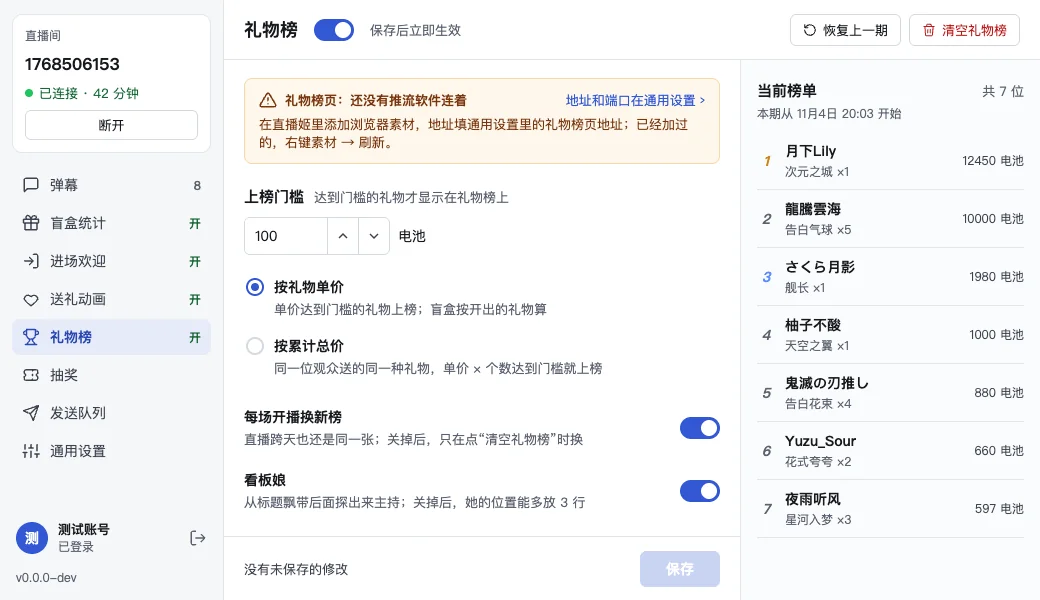
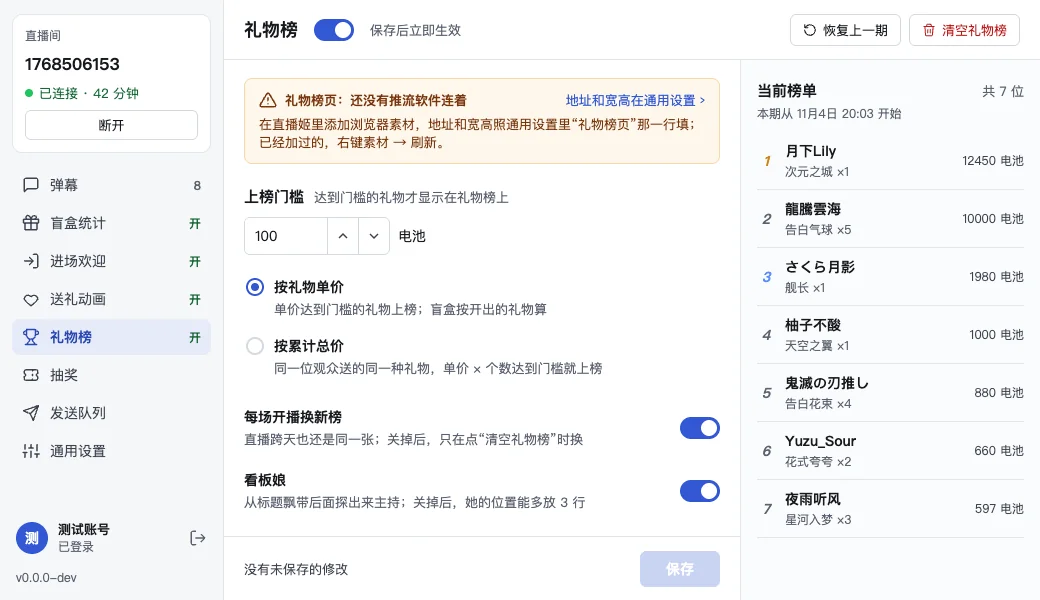
docs: keep browser source sizes in one place on the general settings page list (#296)

Changed region(s): [[0.2462, 0.15, 0.6769, 0.27]]

diff --git a/docs/design/gift-board/boards/GS1-GiftBoardSettings.dc.html b/docs/design/gift-board/boards/GS1-GiftBoardSettings.dc.html
@@ -69,7 +69,7 @@ a{color:#3358D4}a:hover{color:#2A47B0}
               <svg width="18" height="18" viewBox="0 0 24 24" fill="none" stroke="{{t.success}}" stroke-width="2" stroke-linecap="round" stroke-linejoin="round" aria-hidden="true"><path d="M22 11.08V12a10 10 0 1 1-5.93-9.14M22 4L12 14.01l-3-3"></path></svg>
               <span style="font-size: 13px; font-weight: 600; color: {{t.success}}; white-space: nowrap">礼物榜页：已有 1 个推流软件连着</span>
               <span style="flex: 1"></span>
-              <a href="#" style="font-size: 13px; text-decoration: none; white-space: nowrap">地址和端口在通用设置 ›</a>
+              <a href="#" style="font-size: 13px; text-decoration: none; white-space: nowrap">地址和宽高在通用设置 ›</a>
             </div>
           </sc-if>
           <sc-if value="{{pageWaiting}}" hint-placeholder-val="{{false}}">
@@ -78,9 +78,9 @@ a{color:#3358D4}a:hover{color:#2A47B0}
                 <svg width="18" height="18" viewBox="0 0 24 24" fill="none" stroke="currentColor" stroke-width="2" stroke-linecap="round" stroke-linejoin="round" aria-hidden="true"><path d="M10.29 3.86L1.82 18a2 2 0 0 0 1.71 3h16.94a2 2 0 0 0 1.71-3L13.71 3.86a2 2 0 0 0-3.42 0zM12 9v4M12 17h.01"></path></svg>
                 <span style="font-size: 13px; font-weight: 600; white-space: nowrap">礼物榜页：还没有推流软件连着</span>
                 <span style="flex: 1"></span>
-                <a href="#" style="font-size: 13px; text-decoration: none; white-space: nowrap">地址和端口在通用设置 ›</a>
+                <a href="#" style="font-size: 13px; text-decoration: none; white-space: nowrap">地址和宽高在通用设置 ›</a>
               </div>
-              <span style="font-size: 13px; line-height: 18px">在直播姬里添加浏览器素材，地址填通用设置里的礼物榜页地址；已经加过的，右键素材 → 刷新。</span>
+              <span style="font-size: 13px; line-height: 18px">在直播姬里添加浏览器素材，地址和宽高照通用设置里“礼物榜页”那一行填；已经加过的，右键素材 → 刷新。</span>
             </div>
           </sc-if>
 
@@ -193,7 +193,7 @@ a{color:#3358D4}a:hover{color:#2A47B0}
         <div style="display: flex; height: 36px; border: 1px solid {{t.control}}; border-radius: 6px; overflow: hidden"><span style="width: 62px; display: flex; align-items: center; padding: 0 10px; font-size: 14px">17890</span><span style="width: 30px; border-left: 1px solid {{t.control}}"></span><span style="width: 30px; border-left: 1px solid {{t.control}}"></span></div>
         <span style="font-size: 13px; color: {{t.secondary}}">改了端口，直播姬里所有浏览器素材的地址都要跟着改</span>
       </div>
-      <div style="display: flex; align-items: baseline; gap: 6px"><span style="font-size: 14px">页面</span><span style="font-size: 13px; color: {{t.secondary}}">每个页面在直播姬里各加一个浏览器素材：横屏 1920 × 1080，竖屏 1080 × 1920</span></div>
+      <div style="display: flex; align-items: baseline; gap: 6px"><span style="font-size: 14px">页面</span><span style="font-size: 13px; color: {{t.secondary}}">每个页面在直播姬里各加一个浏览器素材，宽高照每行写的填</span></div>
       <div style="display: flex; flex-direction: column; border: 1px solid {{t.border}}; border-radius: 8px">
         <sc-for list="{{pages}}" as="p" hint-placeholder-count="3">
           <div style="display: flex; flex-direction: column; gap: 8px; padding: 12px; border-top: {{p.divider}}; background: {{p.bg}}">
@@ -205,8 +205,10 @@ a{color:#3358D4}a:hover{color:#2A47B0}
             </div>
             <div style="display: flex; gap: 8px">
               <span style="flex: 1; height: 32px; box-sizing: border-box; display: flex; align-items: center; padding: 0 10px; border-radius: 6px; background: {{t.subtle}}; font-family: Menlo, Consolas, monospace; font-size: 13px">{{p.url}}</span>
+              <span style="width: 262px; flex-shrink: 0; display: flex; align-items: center; gap: 6px; font-size: 13px; color: {{t.secondary}}; white-space: nowrap"><svg width="14" height="14" style="flex-shrink: 0" viewBox="0 0 24 24" fill="none" stroke="currentColor" stroke-width="1.8" stroke-linecap="round" stroke-linejoin="round" aria-hidden="true"><path d="M4 7V4h3M17 4h3v3M20 17v3h-3M7 20H4v-3"></path></svg>{{p.size}}</span>
               <button type="button" aria-label="复制{{p.name}}地址" style="height: 32px; display: inline-flex; align-items: center; gap: 6px; padding: 0 12px; border: 1px solid {{t.control}}; border-radius: 6px; background: {{t.card}}; color: {{t.primary}}; font: inherit; font-size: 13px"><svg width="13" height="13" viewBox="0 0 24 24" fill="none" stroke="currentColor" stroke-width="1.8" aria-hidden="true"><path d="M9 9h11v11H9zM5 15H4V4h11v1"></path></svg>复制</button>
             </div>
+            <sc-if value="{{p.waiting}}" hint-placeholder-val="{{false}}"><span style="font-size: 13px; line-height: 18px; color: {{t.warnText}}">还没有推流软件连着。在直播姬里添加浏览器素材，地址和宽高照这一行填；已经加过的，右键素材 → 刷新。</span></sc-if>
           </div>
         </sc-for>
       </div>
@@ -306,10 +308,10 @@ class Component extends DCLogic {
     const asideCount = rows.length ? '共 ' + rows.length + ' 位' : '';
     const emptyText = !connected ? '连上直播间后，这里显示这个直播间的礼物榜。' : !enabled ? '礼物榜关着，不记录也不显示。' : '还没有人上榜。达到门槛的礼物会出现在这里和直播画面上。';
     const pages = [
-      { name: '视频页', note: '欢迎动画、进场动画和送礼动画在这里播放', icon: icons.film, url: 'http://localhost:17890/video', status: '2 个推流软件连着', statusColor: t.success },
-      { name: '抽奖页', note: '报名、开奖和中奖名单', icon: icons.ticket, url: 'http://localhost:17890/lottery', status: '1 个推流软件连着', statusColor: t.success },
-      { name: '礼物榜页', note: '送礼观众的排行 · 素材 480 × 1000，可放大', icon: icons.trophy, url: 'http://localhost:17890/gift-board', status: pageOk ? '1 个推流软件连着' : '还没有推流软件连着', statusColor: pageOk ? t.success : t.warnText }
-    ].map((p, i) => ({ ...p, divider: i ? '1px solid ' + t.border : '0', bg: 'transparent' }));
+      { name: '视频页', note: '欢迎动画、进场动画和送礼动画在这里播放', size: '1920 × 1080', icon: icons.film, url: 'http://localhost:17890/video', status: '2 个推流软件连着', statusColor: t.success },
+      { name: '抽奖页', note: '报名、开奖和中奖名单', size: '横屏 1920 × 1080 · 竖屏 1080 × 1920', icon: icons.ticket, url: 'http://localhost:17890/lottery', status: '1 个推流软件连着', statusColor: t.success },
+      { name: '礼物榜页', note: '送礼观众的排行', size: '480 × 1000，可以等比放大', icon: icons.trophy, url: 'http://localhost:17890/gift-board', status: pageOk ? '1 个推流软件连着' : '还没有推流软件连着', statusColor: pageOk ? t.success : t.warnText }
+    ].map((p, i) => ({ ...p, waiting: p.statusColor === t.warnText, divider: i ? '1px solid ' + t.border : '0', bg: 'transparent' }));
 
     return {
       t, w, h, connected, offline: !connected, isBoard: page === '礼物榜', isGeneral: page === '通用设置', nav, pages,

diff --git a/docs/design/gift-board/README.md b/docs/design/gift-board/README.md
@@ -114,6 +114,7 @@ node docs/design/gift-board/tools/server.mjs 8799
 | 通用设置的页面列表 | `{"page":"通用设置"}` | GS7 | `gui-general-pages.webp` |
 | 恢复上一期确认（自动换榜后） | `{"scene":"恢复确认"}` | GS8 | `gui-restore-confirm.webp` |
 | 已恢复，两期合并 | `{"scene":"已恢复"}` | GS9 | `gui-restored.webp` |
+| 通用设置，礼物榜页没连上 | `{"page":"通用设置","scene":"礼物榜页没连上"}` | GS10 | `gui-general-waiting.webp` |
 
 - **导航**：放在“送礼动画”下面，图标是奖杯；开着时右边写“开”，关着写“关”。
 - **标题栏**：标题、开关、“保存后立即生效”；右边是“恢复上一期”和“清空礼物榜”两个按钮。“恢复上一期”是普通灰框按钮，回退箭头图标，没连直播间或没有上一期时不可用；“清空礼物榜”是垃圾桶图标、红字，没连直播间或榜上没人时不可用。没连直播间时，按钮左边提示“连上直播间后才能清空和恢复”。
@@ -124,5 +125,6 @@ node docs/design/gift-board/tools/server.mjs 8799
 - **每场开播换新榜**：放在门槛下面、看板娘上面，一行标题加说明“直播跨天也还是同一张；关掉后，只在点“清空礼物榜”时换”，开关在右边，默认开。
 - **看板娘**：一行标题加说明“从标题飘带后面探出来主持；关掉后，她的位置能多放 3 行”，开关在右边，默认开。
 - **右栏“当前榜单”**：只读，顺序和礼物榜页完全一样。每行是名次（斜体数字，前三名金、灰、蓝）、昵称（放不下时省略号）、礼物 × 个数，以及这一行的价值（电池）。右上角写“共 N 位”，标题下面一行写“本期从 11月4日 20:03 开始”，自动换榜、清空、恢复以后跟着变；没连直播间时不显示。没有内容时按情况提示：没连直播间、礼物榜关着、还没有人上榜。
-- **通用设置**：网页服务的页面列表在视频页、抽奖页后面加“礼物榜页”，说明写“送礼观众的排行 · 素材 480 × 1000，可放大”，因为它不是那两个页面的 1920 × 1080；连接状态和复制按钮同另外两个页面。
+- **通用设置**：网页服务的页面列表在视频页、抽奖页后面加“礼物榜页”，说明写“送礼观众的排行”；连接状态和复制按钮同另外两个页面。
+- **素材宽高只写在页面列表里**：每行地址框右边、“复制”左边一栏，取景框小图标加宽高，三行对齐。视频页“1920 × 1080”（动画画布固定横屏），抽奖页“横屏 1920 × 1080 · 竖屏 1080 × 1920”，礼物榜页“480 × 1000，可以等比放大”。“页面”旁边写“每个页面在直播姬里各加一个浏览器素材，宽高照每行写的填”；某行没连上时，下面写“还没有推流软件连着。在直播姬里添加浏览器素材，地址和宽高照这一行填；已经加过的，右键素材 → 刷新。”别处不写尺寸：功能页状态条的链接写“地址和宽高在通用设置 ›”，礼物榜页没连上时写“地址和宽高照通用设置里“礼物榜页”那一行填”，抽奖主题旁只留“两种抽奖共用”。
 - 最小窗口 1040×600 下，固定文字都不折行；黄色提醒里的接入步骤允许折行，同现有页面。
